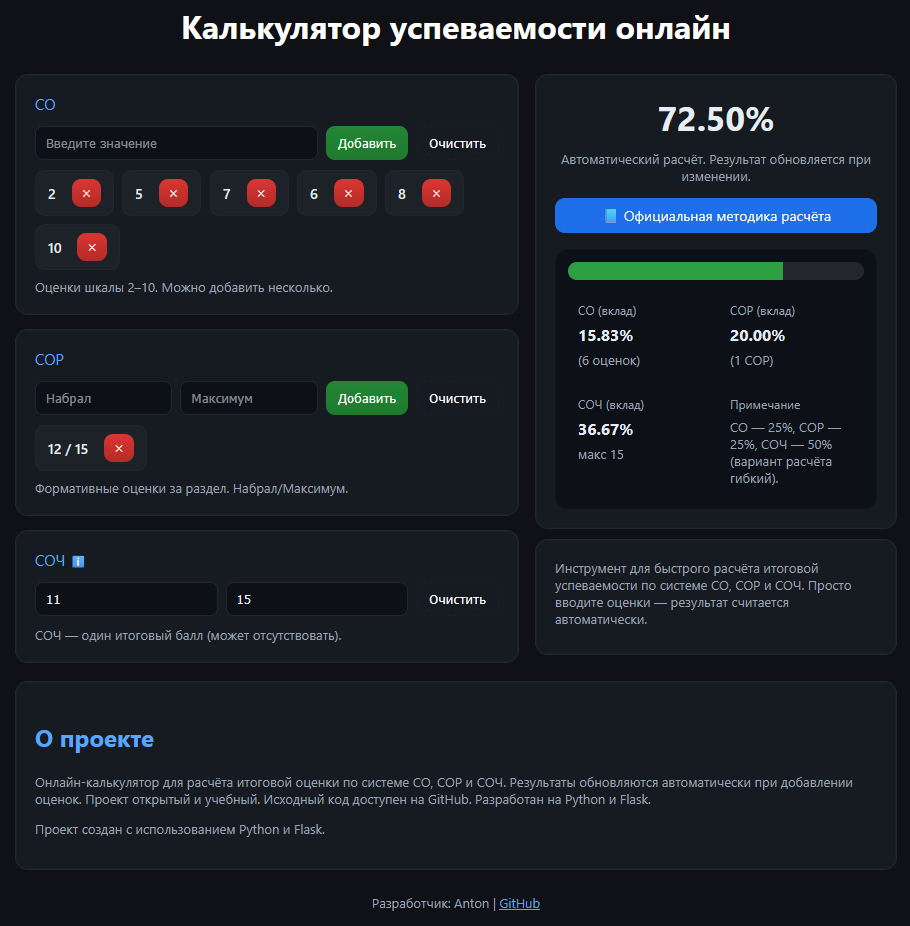
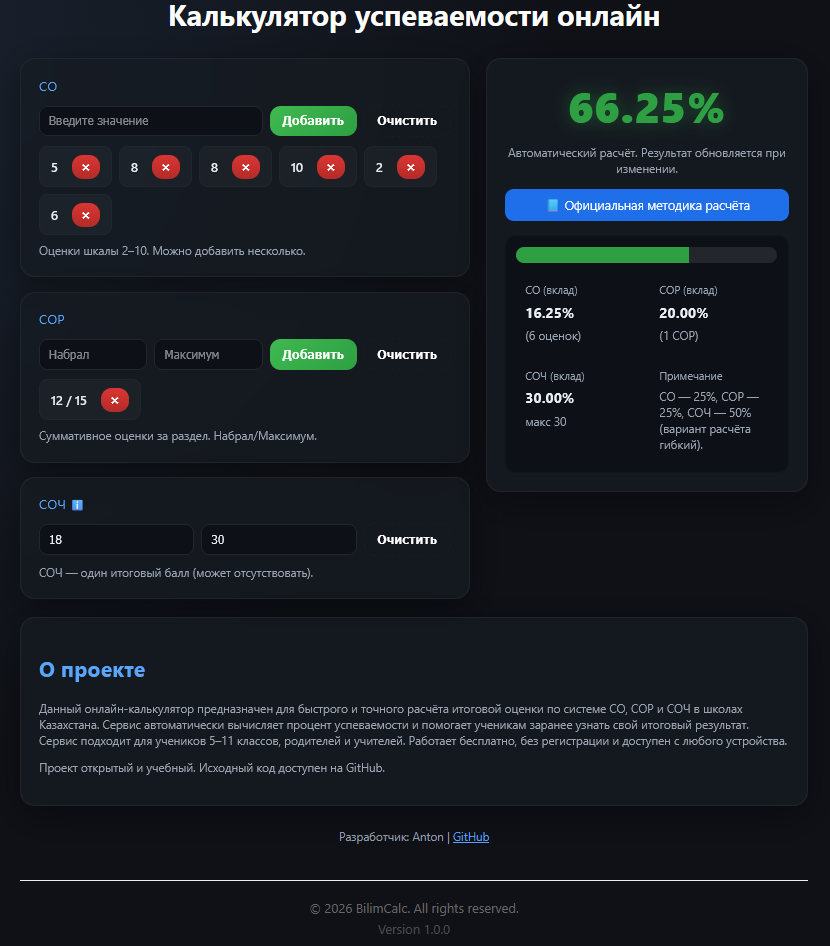
Major update: UI improvements, animation, and SEO optimization Enhanced README with badges and professional project structure

diff --git a/README.md b/README.md
@@ -1,32 +1,70 @@
-# BilimCalc — Калькулятор СО, СОР и СОЧ
+# 📊 BilimCalc — Калькулятор СО, СОР и СОЧ
 
-Онлайн-калькулятор для расчёта итоговой оценки по системе СО, СОР и СОЧ (Казахстан).
+<p align="center">
+  Онлайн-калькулятор для расчёта итоговой оценки по системе СО, СОР и СОЧ (Казахстан)
+</p>
+
+<p align="center">
+  <img src="https://img.shields.io/badge/Python-3.11-blue?logo=python">
+  <img src="https://img.shields.io/badge/Flask-Web_App-black?logo=flask">
+  <img src="https://img.shields.io/badge/Deploy-Render-purple?logo=render">
+  <img src="https://img.shields.io/badge/Status-Active-success">
+  <img src="https://img.shields.io/badge/License-MIT-green">
+</p>
+
+---
+
+## 🌐 Live Demo
+
+👉 https://bilimcalc.onrender.com/
+
+---
+
+## 📸 Интерфейс
 
 ![app](screenshots/main.png)
 
-🌐 Live Demo: https://bilimcalc.onrender.com/
 ---
 
 ## 🚀 Возможности
 
-- Расчёт СО (формативные оценки)
-- Расчёт СОР (оценки за раздел)
-- Расчёт СОЧ (итоговая работа)
-- Автоматический пересчёт результата
-- Адаптивный современный UI
-- SEO (sitemap + robots)
+- 📊 Расчёт СО (формативные оценки)
+- 🧮 Расчёт СОР (суммативные за раздел)
+- 🎯 Расчёт СОЧ (итоговая работа)
+- ⚡ Мгновенный автоматический пересчёт
+- 🎨 Динамическая цветовая индикация оценки
+- 🔢 Анимация подсчёта процента
+- 📱 Полностью адаптивный UI
+- 🔍 SEO-оптимизация (meta, sitemap, robots)
 
 ---
 
-## 🛠 Технологии
+## 🧠 Как работает расчёт
 
+Итоговая оценка рассчитывается на основе:
+
+- СО
+- СОР
+- СОЧ
+
+Результат переводится в процент и отображается пользователю в реальном времени.
+
+---
+
+## 🛠 Технологический стек
+
+### Backend
 - Python 3
 - Flask
 - Gunicorn
+
+### Frontend
 - HTML5
 - CSS3
 - Vanilla JavaScript
-- Render (deploy)
+
+### Deploy
+- Render
 
 ---
 
@@ -37,3 +75,33 @@ git clone https://github.com/antonbogdan165/grade-calculator.git
 cd grade-calculator
 pip install -r requirements.txt
 python app.py
+```
+
+После запуска открой в браузере:
+
+```
+http://127.0.0.1:5000
+```
+
+---
+
+## 📈 SEO-оптимизация
+
+Проект включает:
+
+- sitemap.xml
+- robots.txt
+- meta-description
+- semantic HTML
+
+---
+
+## 🎯 Цель проекта
+
+Создать удобный инструмент для учеников школ Казахстана, позволяющий быстро рассчитывать итоговую оценку и контролировать успеваемость.
+
+---
+
+## 📜 Лицензия
+
+MIT License
